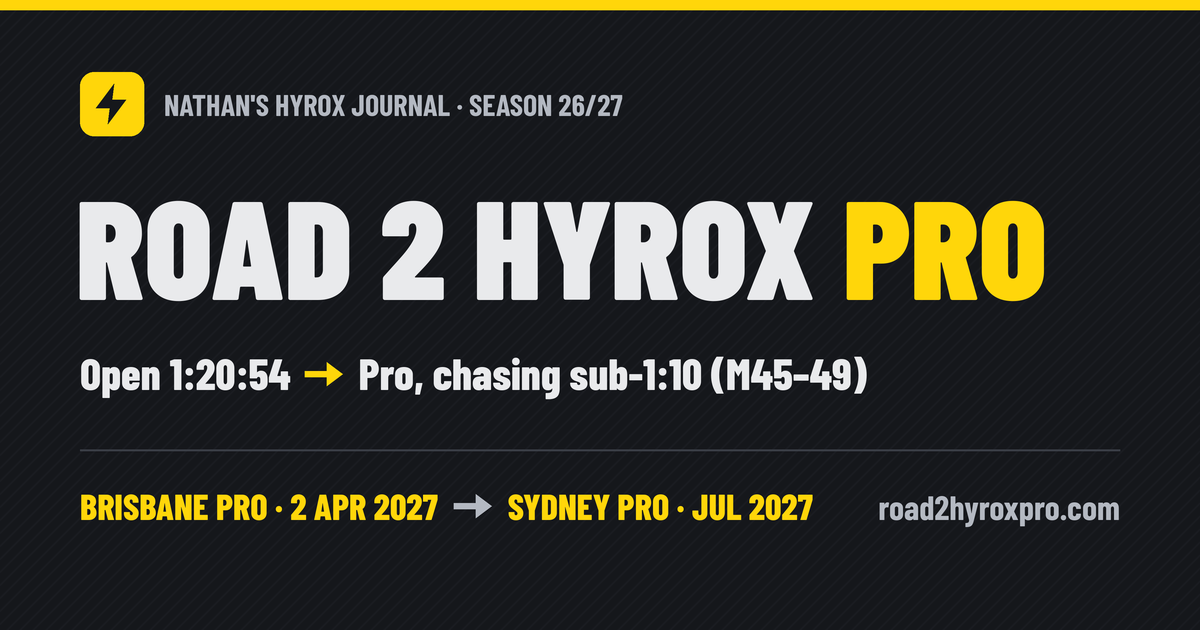
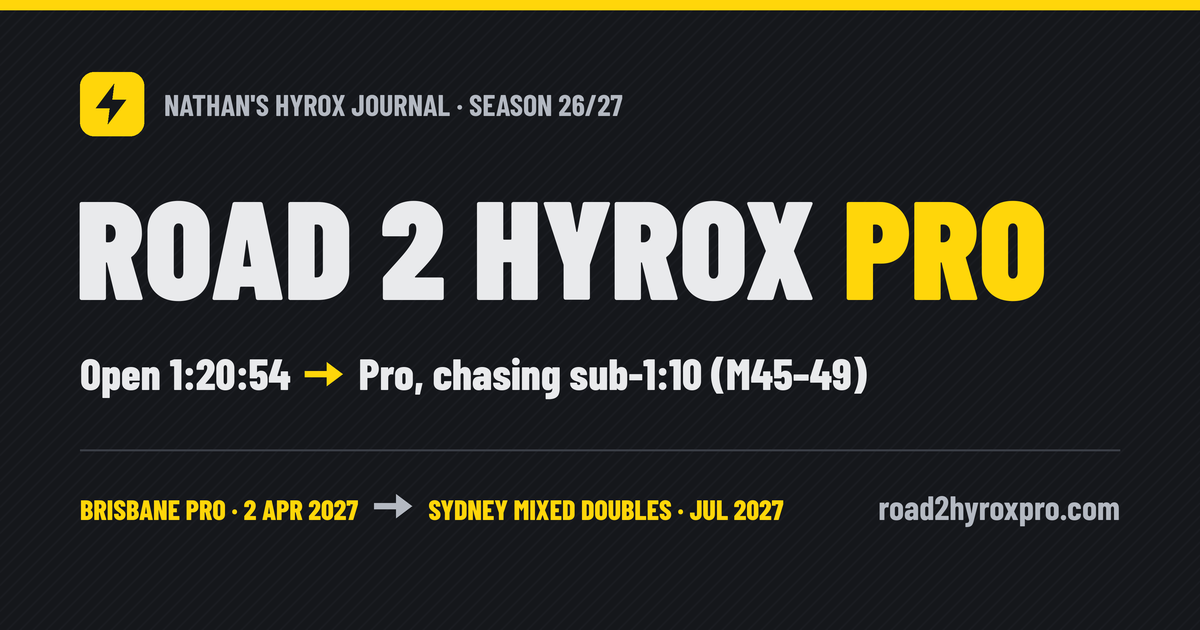
Update Road to Pro site: Brisbane Pro A-race & Sydney Mixed Doubles (#143)

Changed region(s): [[0.0617, 0.7841, 0.6783, 0.8444]]

diff --git a/index.html b/index.html
@@ -104,25 +104,25 @@
     <span class="lb now l" style="left:11.73%">You are here · Base</span>
 <span class="lb r" style="left:100.00%">Brisbane · 2 Apr</span>    <span class="mk now" style="left:11.73%"></span>
 <span class="mk goal" style="left:100.00%"></span>  </div>
-  <div class="prog-legend"><span>Base starts Mon 2 Nov</span><span>~23 weeks to go</span></div></div>
+  <div class="prog-legend"><span>Build phase starts Mon 28 Dec</span><span>~23 weeks to go</span></div></div>
 </section>
 <section class="sec rplan">
   <div class="sec-head"><h2 class="h2">Sub-1:10 race plan <small>HYROX Brisbane · Pro Men · Fri 2 Apr 2027</small></h2></div>
   <div class="rp-table" role="table">
     <div class="rp-row rp-hd" role="row"><span>Segment</span><span>Pro Men weight</span><span class="rp-t">Target</span></div>
-<div class="rp-row" role="row"><span class="rp-seg"><b>Runs</b> <i>8 × 1 km</i></span><span class="rp-w">—</span><span class="rp-t"><b class="num">4:10 each</b><i>range 4:05–4:20 · 33:20 total</i></span></div>
+<div class="rp-row" role="row"><span class="rp-seg"><b>Runs</b> <i>8 × 1 km</i></span><span class="rp-w">—</span><span class="rp-t"><b class="num">4:07 each</b><i>range 3:55–4:15 · 33:00 total</i></span></div>
 <div class="rp-row" role="row"><span class="rp-seg"><b>SkiErg</b> <i>1,000 m</i></span><span class="rp-w">—</span><span class="rp-t"><b class="num">4:10</b></span></div>
-<div class="rp-row" role="row"><span class="rp-seg"><b>Sled push</b> <i>50 m</i></span><span class="rp-w">202 kg</span><span class="rp-t"><b class="num">3:30</b></span></div>
+<div class="rp-row" role="row"><span class="rp-seg"><b>Sled push</b> <i>50 m</i></span><span class="rp-w">202 kg</span><span class="rp-t"><b class="num">3:00</b></span></div>
 <div class="rp-row" role="row"><span class="rp-seg"><b>Sled pull</b> <i>50 m</i></span><span class="rp-w">153 kg</span><span class="rp-t"><b class="num">4:30</b></span></div>
-<div class="rp-row" role="row"><span class="rp-seg"><b>Burpee broad jumps</b> <i>80 m</i></span><span class="rp-w">No added load</span><span class="rp-t"><b class="num">3:45</b></span></div>
-<div class="rp-row" role="row"><span class="rp-seg"><b>Row</b> <i>1,000 m</i></span><span class="rp-w">—</span><span class="rp-t"><b class="num">4:15</b></span></div>
+<div class="rp-row" role="row"><span class="rp-seg"><b>Burpee broad jumps</b> <i>80 m</i></span><span class="rp-w">No added load</span><span class="rp-t"><b class="num">4:00</b></span></div>
+<div class="rp-row" role="row"><span class="rp-seg"><b>Row</b> <i>1,000 m</i></span><span class="rp-w">—</span><span class="rp-t"><b class="num">4:25</b></span></div>
 <div class="rp-row" role="row"><span class="rp-seg"><b>Farmers carry</b> <i>200 m</i></span><span class="rp-w">2 × 32 kg</span><span class="rp-t"><b class="num">1:45</b></span></div>
-<div class="rp-row" role="row"><span class="rp-seg"><b>Sandbag lunges</b> <i>100 m</i></span><span class="rp-w">30 kg</span><span class="rp-t"><b class="num">4:00</b></span></div>
-<div class="rp-row" role="row"><span class="rp-seg"><b>Wall balls</b> <i>100 reps</i></span><span class="rp-w">9 kg ball · 3 m target</span><span class="rp-t"><b class="num">5:30</b></span></div>
-<div class="rp-row" role="row"><span class="rp-seg"><b>Roxzone</b> <i>All transitions</i></span><span class="rp-w">—</span><span class="rp-t"><b class="num">4:30</b></span></div>
-<div class="rp-row rp-total" role="row"><span class="rp-seg"><b>Total</b> <i>stations 31:25</i></span><span class="rp-w"></span><span class="rp-t"><b class="num">1:09:15</b></span></div>
+<div class="rp-row" role="row"><span class="rp-seg"><b>Sandbag lunges</b> <i>100 m</i></span><span class="rp-w">30 kg</span><span class="rp-t"><b class="num">4:50</b></span></div>
+<div class="rp-row" role="row"><span class="rp-seg"><b>Wall balls</b> <i>100 reps</i></span><span class="rp-w">9 kg ball · 3 m target</span><span class="rp-t"><b class="num">5:00</b></span></div>
+<div class="rp-row" role="row"><span class="rp-seg"><b>Roxzone</b> <i>All transitions</i></span><span class="rp-w">—</span><span class="rp-t"><b class="num">5:00</b></span></div>
+<div class="rp-row rp-total" role="row"><span class="rp-seg"><b>Total</b> <i>stations 31:40</i></span><span class="rp-w"></span><span class="rp-t"><b class="num">1:09:40</b></span></div>
   </div>
-  <p class="rp-note dim">Target: under 1:10, with ~45 s buffer.</p>
+  <p class="rp-note dim">Target: under 1:10, with 20 s buffer.</p>
 </section><script>(function(){var d=new Date(),t=d.getFullYear()+'-'+('0'+(d.getMonth()+1)).slice(-2)+'-'+('0'+d.getDate()).slice(-2);document.querySelectorAll('.home-days details.day').forEach(function(e){e.open=e.dataset.date===t;});})();</script>
 </main>
 <footer><div class="wrap">

diff --git a/training/index.html b/training/index.html
@@ -145,8 +145,8 @@
   </section>
   <div class="ahead further">
     <div class="arow grp"><span class="a1">Further out</span><span class="a2"></span><span class="a3"></span></div>
-<div class="arow"><span class="a1">Base · wks 6–11</span><span class="a2">Aerobic volume, heavy strength, sled technique · 16 Nov – 27 Dec 2026</span><span class="a3">44 → 50 km/wk</span></div><div class="arow"><span class="a1">Build · wks 12–19</span><span class="a2">Threshold work and weekly bricks · 28 Dec – 21 Feb 2027</span><span class="a3">50 → 58 km/wk</span></div><div class="arow"><span class="a1">Brisbane specific · wks 20–23</span><span class="a2">Full Pro sleds, race-pace work · 22 Feb – 21 Mar 2027</span><span class="a3">55 → 60 km/wk</span></div><div class="arow"><span class="a1">Taper · wks 24–25</span><span class="a2">Volume down, intensity short · 22 Mar – 2 Apr 2027</span><span class="a3">40 → 25 km/wk</span></div><div class="arow race"><span class="a1">🏁 Brisbane Pro</span><span class="a2">Fri 2 Apr 2027</span><span class="a3">goal sub-1:10</span></div>
-<div class="arow"><span class="a1">Recovery · wks 26–27</span><span class="a2">Easy aerobic, then review the splits · 3–18 Apr 2027</span><span class="a3">15 → 35 km/wk</span></div><div class="arow"><span class="a1">Sydney specific · wks 28–33</span><span class="a2">Race-pace work at Pro loads · 19 Apr – 30 May 2027</span><span class="a3">55 → 65 km/wk</span></div><div class="arow"><span class="a1">Peak + taper · wks 34–38</span><span class="a2">¾ sim, then taper · 31 May – 3 Jul 2027</span><span class="a3">60 → 30 km/wk</span></div><div class="arow race"><span class="a1">🏁 Sydney Pro</span><span class="a2">July 2027 · date TBC</span><span class="a3"></span></div>
+<div class="arow"><span class="a1">Base · wks 6–11</span><span class="a2">Aerobic volume, heavy strength, sled technique · 16 Nov – 27 Dec 2026</span><span class="a3"></span></div><div class="arow"><span class="a1">Build · wks 12–17</span><span class="a2">Threshold work, weekly bricks, step up to Pro loads · 28 Dec – 7 Feb 2027</span><span class="a3"></span></div><div class="arow"><span class="a1">Brisbane specific · wks 18–22</span><span class="a2">Full Pro sleds, race-pace work, full and ¾ sims · 8 Feb – 14 Mar 2027</span><span class="a3"></span></div><div class="arow"><span class="a1">Peak + taper · wks 23–25</span><span class="a2">Volume down, race-pace intensity short · 15 Mar – 2 Apr 2027</span><span class="a3"></span></div><div class="arow race"><span class="a1">🏁 Brisbane Pro</span><span class="a2">Fri 2 Apr 2027</span><span class="a3">goal sub-1:10</span></div>
+<div class="arow"><span class="a1">Recovery + aerobic base · wks 26–34</span><span class="a2">Easy recovery after Brisbane, then long aerobic running · 3 Apr – 6 Jun 2027</span><span class="a3"></span></div><div class="arow"><span class="a1">Sydney Mixed Doubles prep · wks 35–38</span><span class="a2">Open-weight station speed and partner transitions · 7 Jun – 3 Jul 2027</span><span class="a3"></span></div><div class="arow race"><span class="a1">🏁 Sydney Mixed Doubles</span><span class="a2">July 2027 · date TBC</span><span class="a3"></span></div>
   </div>
 </section>
 
